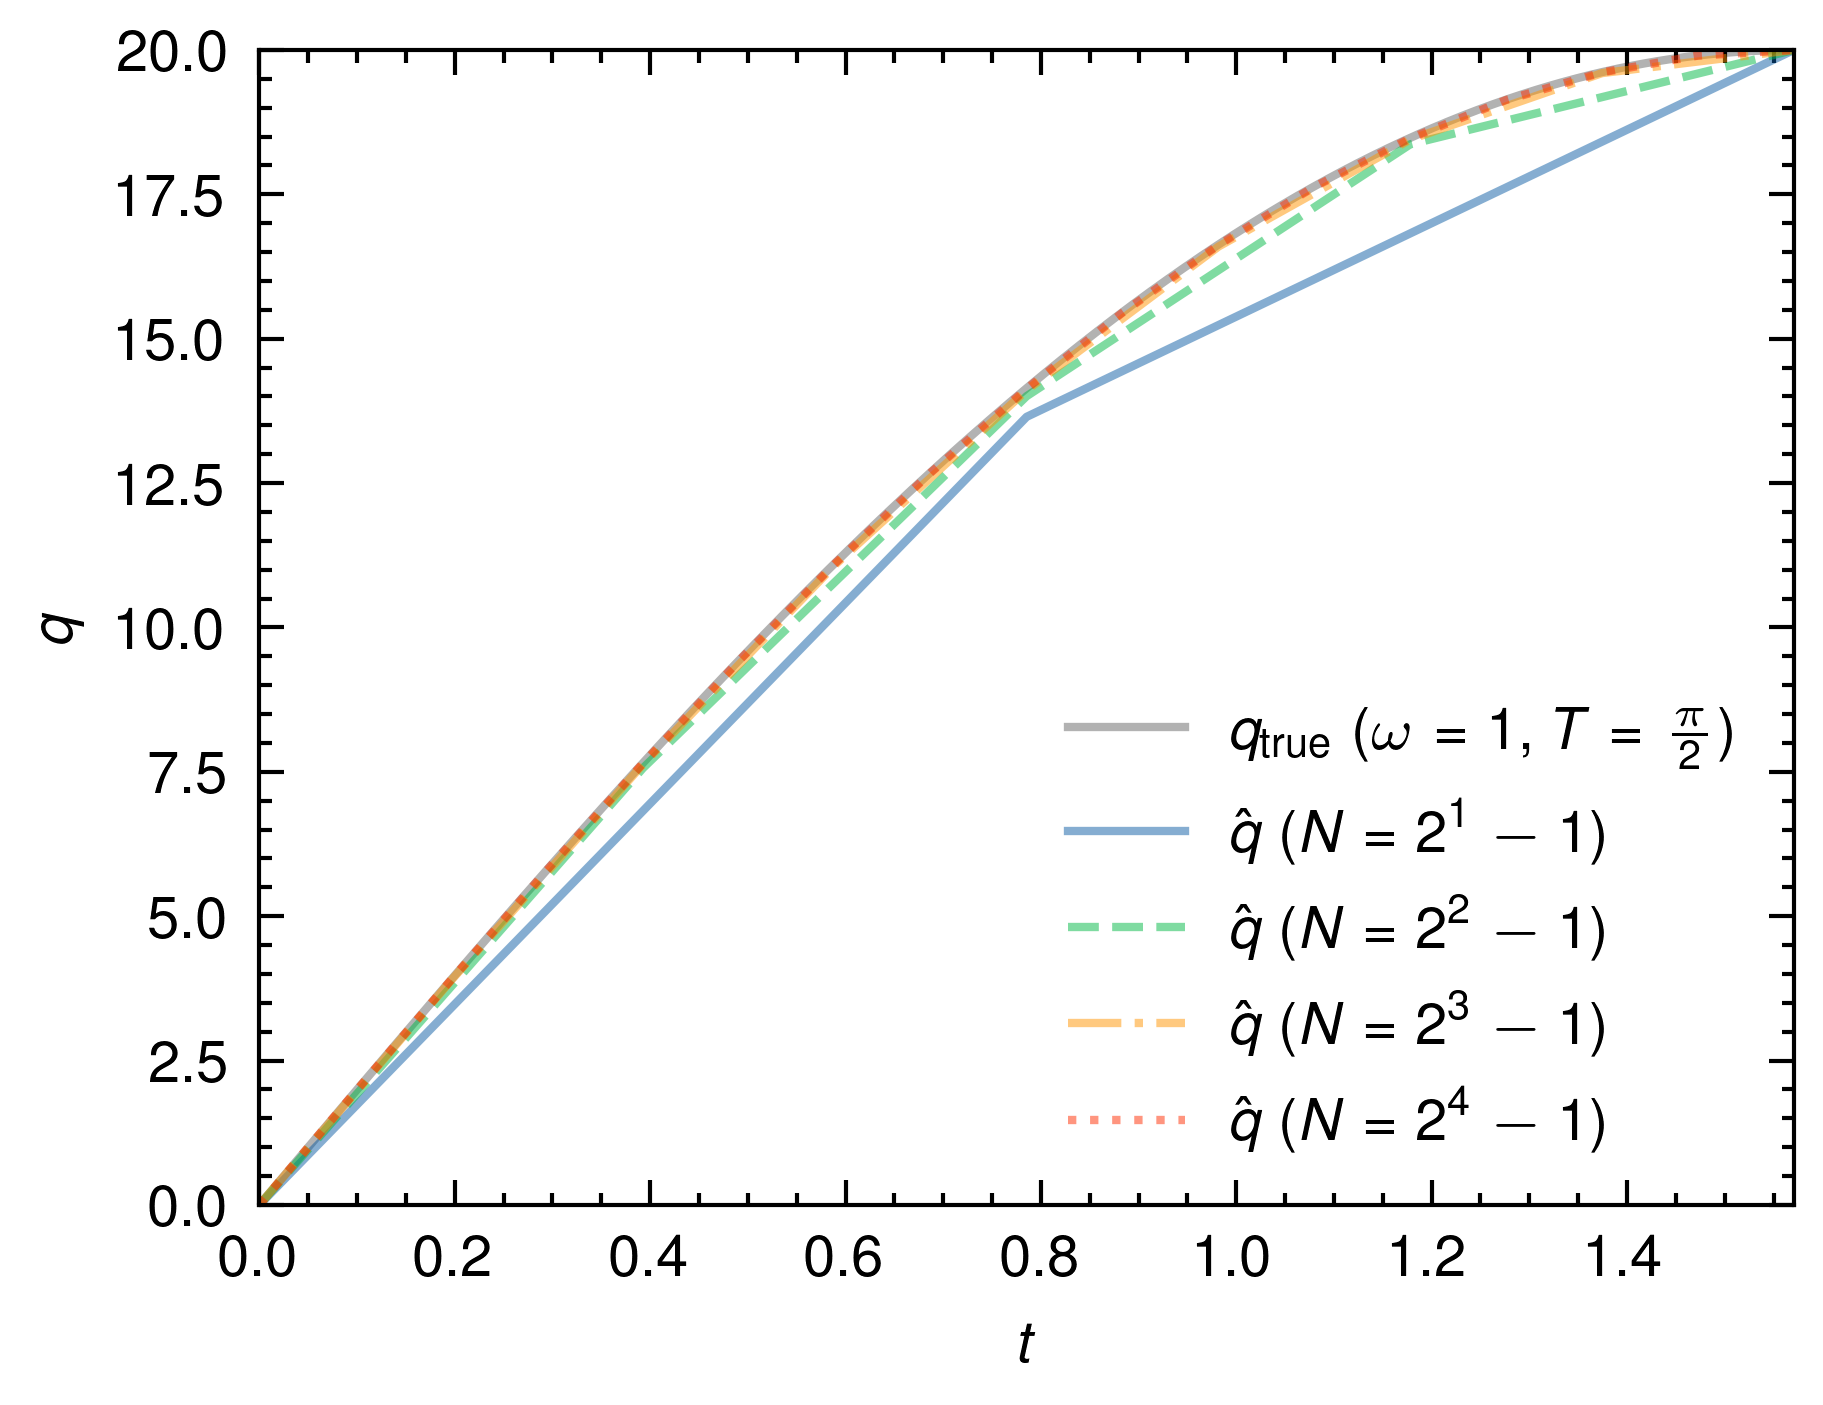
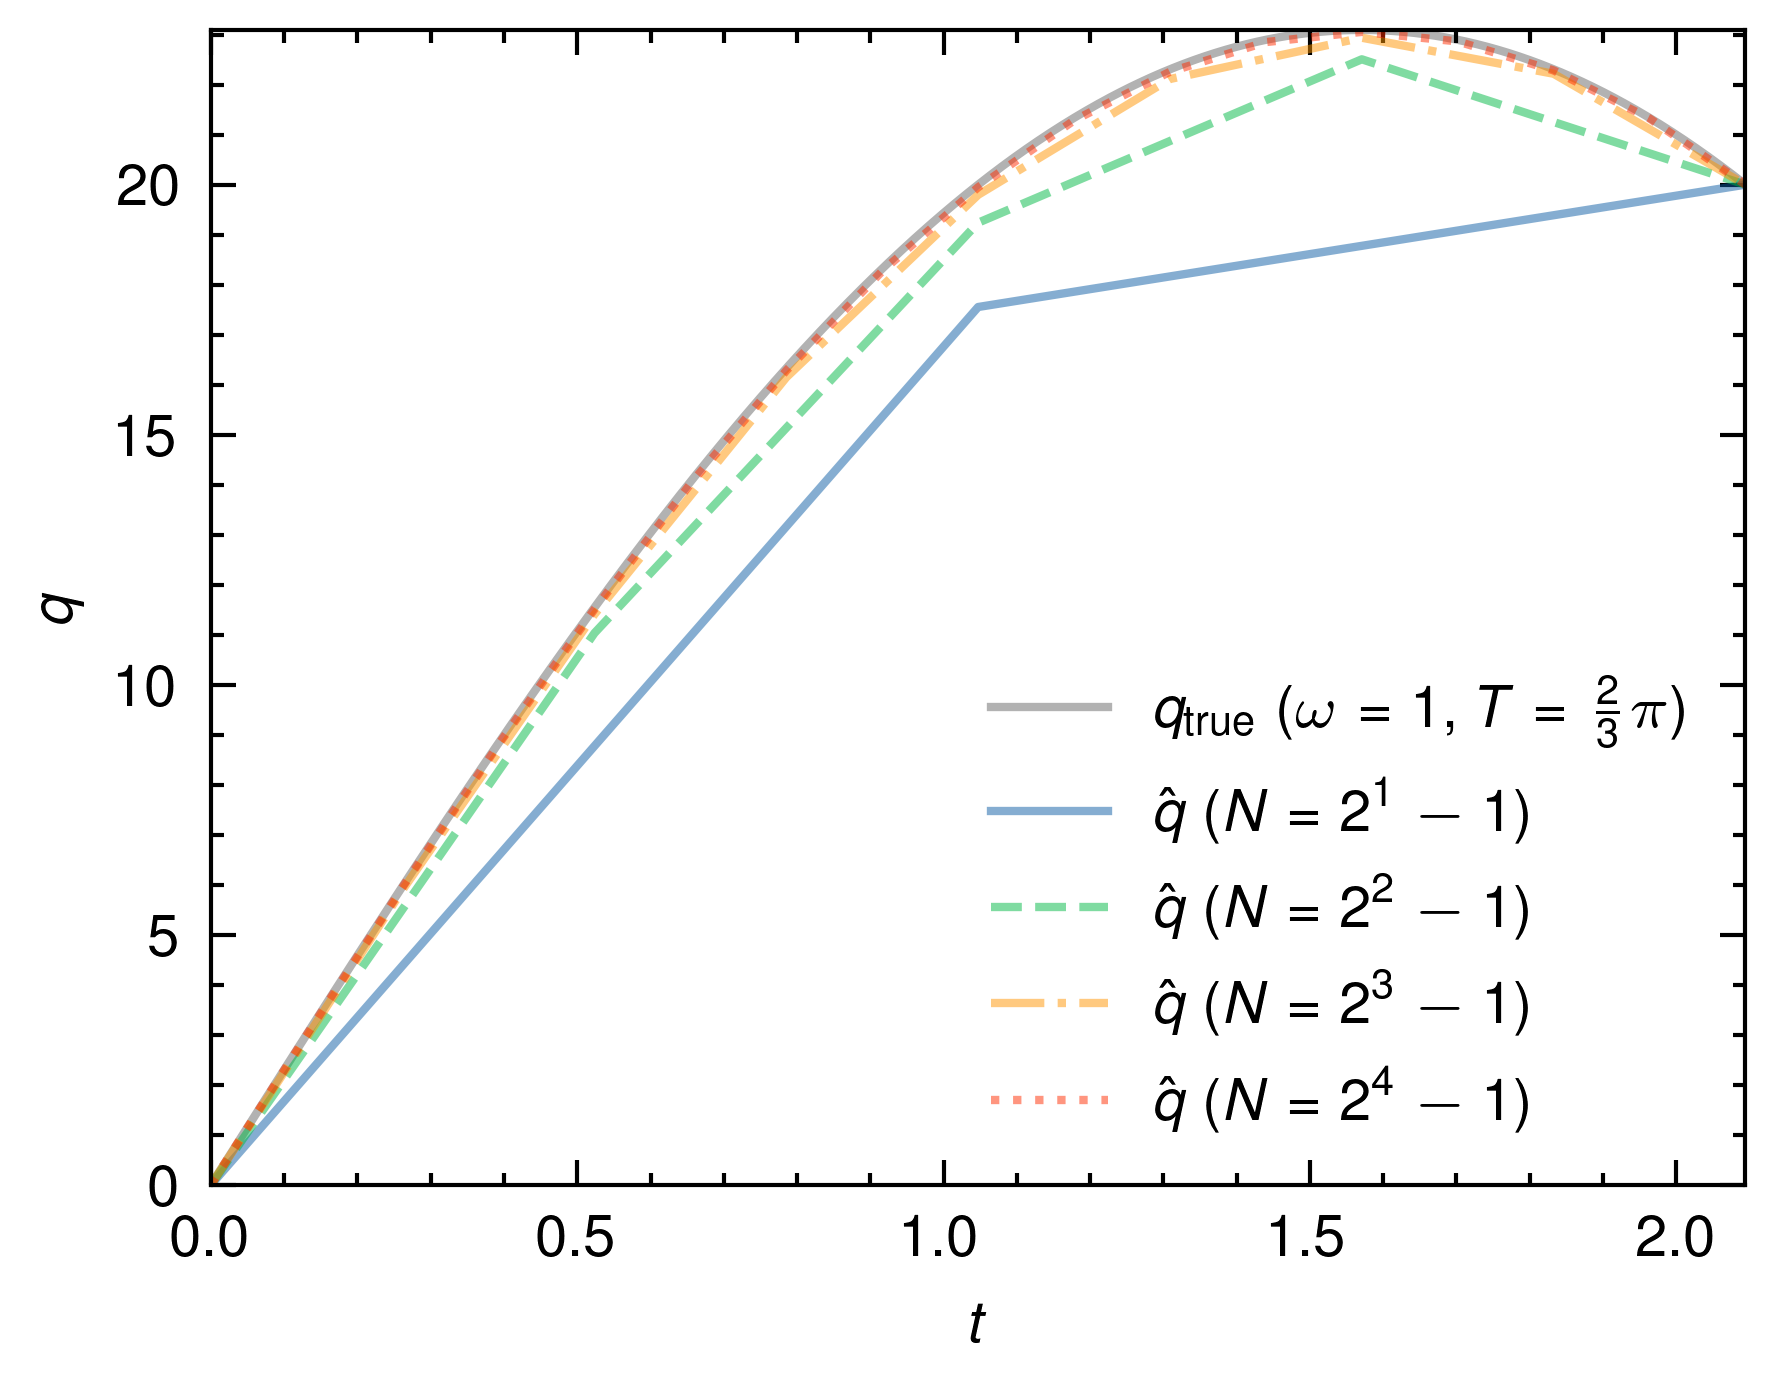
T = 2 pi / 3

diff --git a/theory/pq_plot.py b/theory/pq_plot.py
@@ -80,7 +80,7 @@ dh = pd.read_parquet('data3.parquet')
 
 t = dh['t']
 y_true = dh['y_true']
-t_hats = [np.linspace(0, np.pi/2, 2**i + 1) for i in range(1, 5)]
+t_hats = [np.linspace(0, np.max(t), 2**i + 1) for i in range(1, 5)]
 y_hats = []
 for i in range(1, 5):
     y_hats.append(dh[f'y_{i}'][:len(t_hats[i-1])])
@@ -95,7 +95,7 @@ with plt.style.context(["science", "nature"]):
     fig, ax = plt.subplots()
     ax.autoscale(tight=True)
     ax.set(**pparam)
-    ax.plot(t, y_true, 'k', label=r'$q_\text{true}~(\omega=1, T=\frac{\pi}{2})$', alpha=0.3)
+    ax.plot(t, y_true, 'k', label=r'$q_\text{true}~(\omega=1, T=\frac{2}{3}\pi)$', alpha=0.3)
     for i in range(1, 5):
         ax.plot(t_hats[i-1], y_hats[i-1], styles[i-1], label=rf'$\hat{{q}} ~(N=2^{i} - 1)$', alpha=0.5)
     ax.legend()

diff --git a/theory/src/main.rs b/theory/src/main.rs
@@ -43,8 +43,8 @@ fn main() {
     let A = 0f64;
     let B = 20f64;
     let omega = 1f64;
-    let T = PI / 2f64;
-    let t = linspace(0, PI / 2f64, 2usize.pow(10) + 1);
+    let T = 2f64 * PI / 3f64;
+    let t = linspace(0, T, 2usize.pow(10) + 1);
     let mut y_true = true_harmonic(t.len()-2, omega, T, A, B);
     y_true.push(B);
     y_true.insert(0, A);
